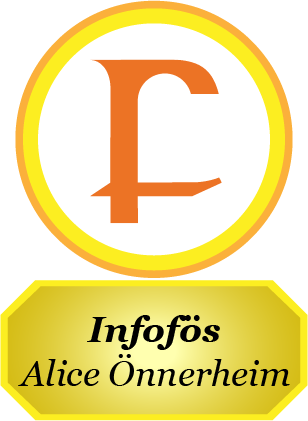
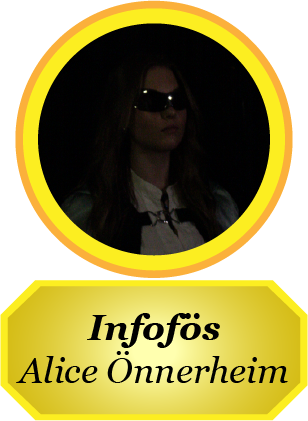
Update portraits

diff --git a/lib/screens/nollning/nolleguide_26/guild.dart b/lib/screens/nollning/nolleguide_26/guild.dart
@@ -97,7 +97,6 @@ class _GuildPageState extends State<GuildPage> {
     }
 
     final String boardPortrait = portrait("board");
-    final String boardmemberPortrait = portrait("boardmember");
     final String bookPortrait = portrait("book");
     final String bookfosPortrait = portrait("bookfos");
     final String cafePortrait = portrait("cafe");
@@ -123,6 +122,10 @@ class _GuildPageState extends State<GuildPage> {
     final String spiderPortrait = portrait("spider");
     final String sponsfosPortrait = portrait("sponsfos");
     final String sportPortrait = portrait("sport");
+    final String styrelse1Portrait = portrait("styrelse1");
+    final String styrelse2Portrait = portrait("styrelse2");
+    final String styrelse3Portrait = portrait("styrelse3");
+    final String styrelse4Portrait = portrait("styrelse4");
     final String tavernPortrait = portrait("tavern");
     final String treasurerPortrait = portrait("treasurer");
     final String truthPortrait = portrait("truth");
@@ -176,8 +179,16 @@ class _GuildPageState extends State<GuildPage> {
             onTap: () => pushNavigator(index: 9, imagePath: boardPortrait)),
       ]),
       PortraitRow(portraits: [
-        PortraitData(imagePath: boardmemberPortrait, flex: smallPortraitFlex,
-            onTap: () => pushNavigator(index: 10, imagePath: boardmemberPortrait)),
+        PortraitData(imagePath: styrelse1Portrait, flex: doublePortraitFlex,
+            onTap: () => pushNavigator(index: 10, imagePath: styrelse1Portrait)),
+        PortraitData(imagePath: styrelse2Portrait, flex: doublePortraitFlex,
+            onTap: () => pushNavigator(index: 10, imagePath: styrelse2Portrait)),
+      ]),
+      PortraitRow(portraits: [
+        PortraitData(imagePath: styrelse3Portrait, flex: doublePortraitFlex,
+            onTap: () => pushNavigator(index: 10, imagePath: styrelse3Portrait)),
+        PortraitData(imagePath: styrelse4Portrait, flex: doublePortraitFlex,
+            onTap: () => pushNavigator(index: 10, imagePath: styrelse4Portrait)),
       ]),
       Image.asset(studentcouncilTitle),
       PortraitRow(portraits: [
